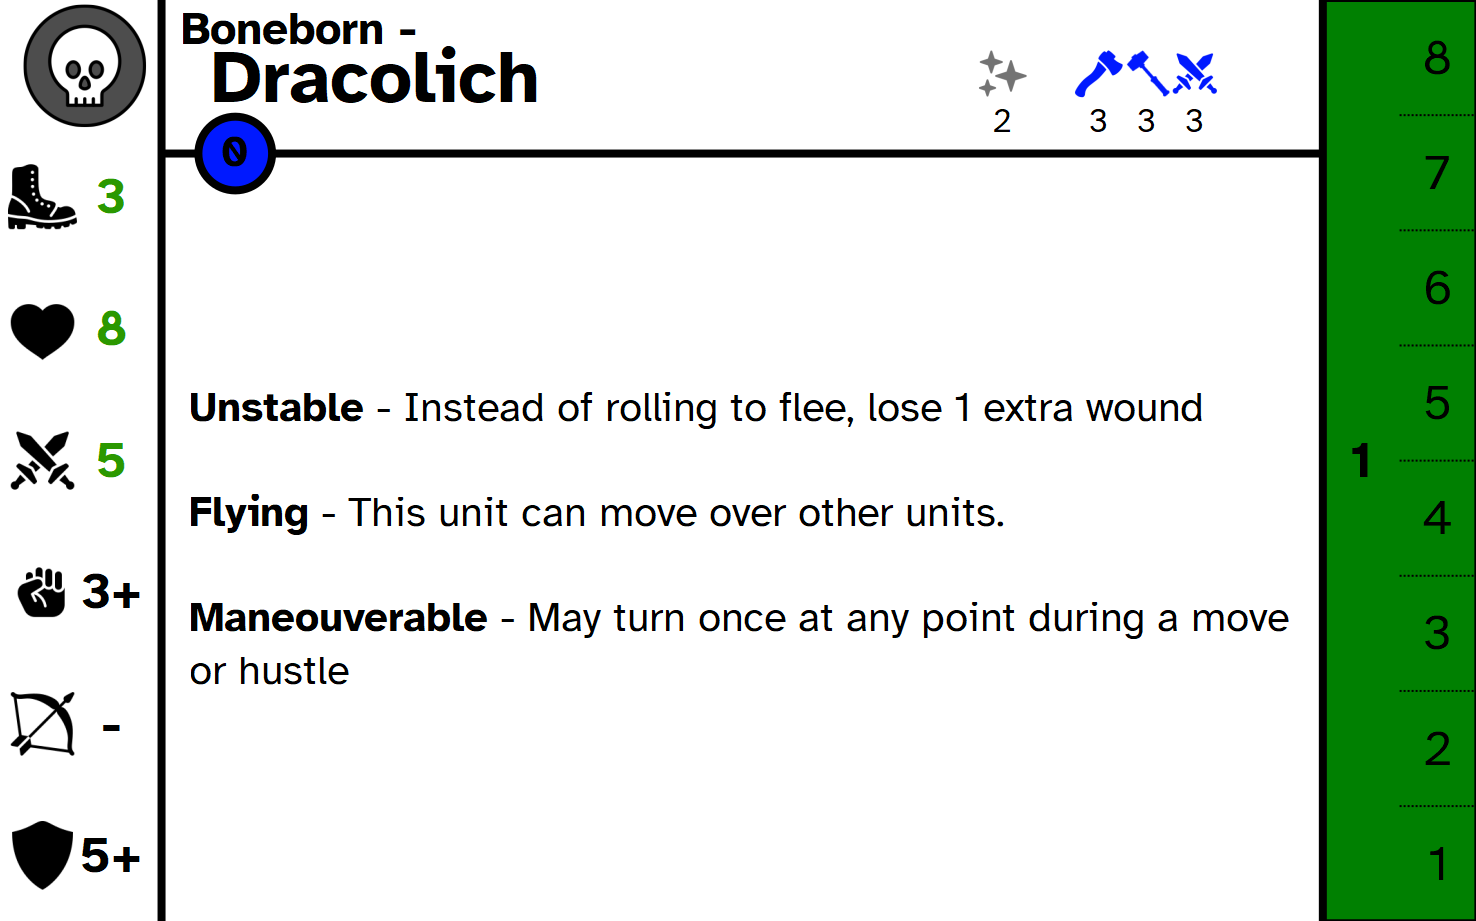
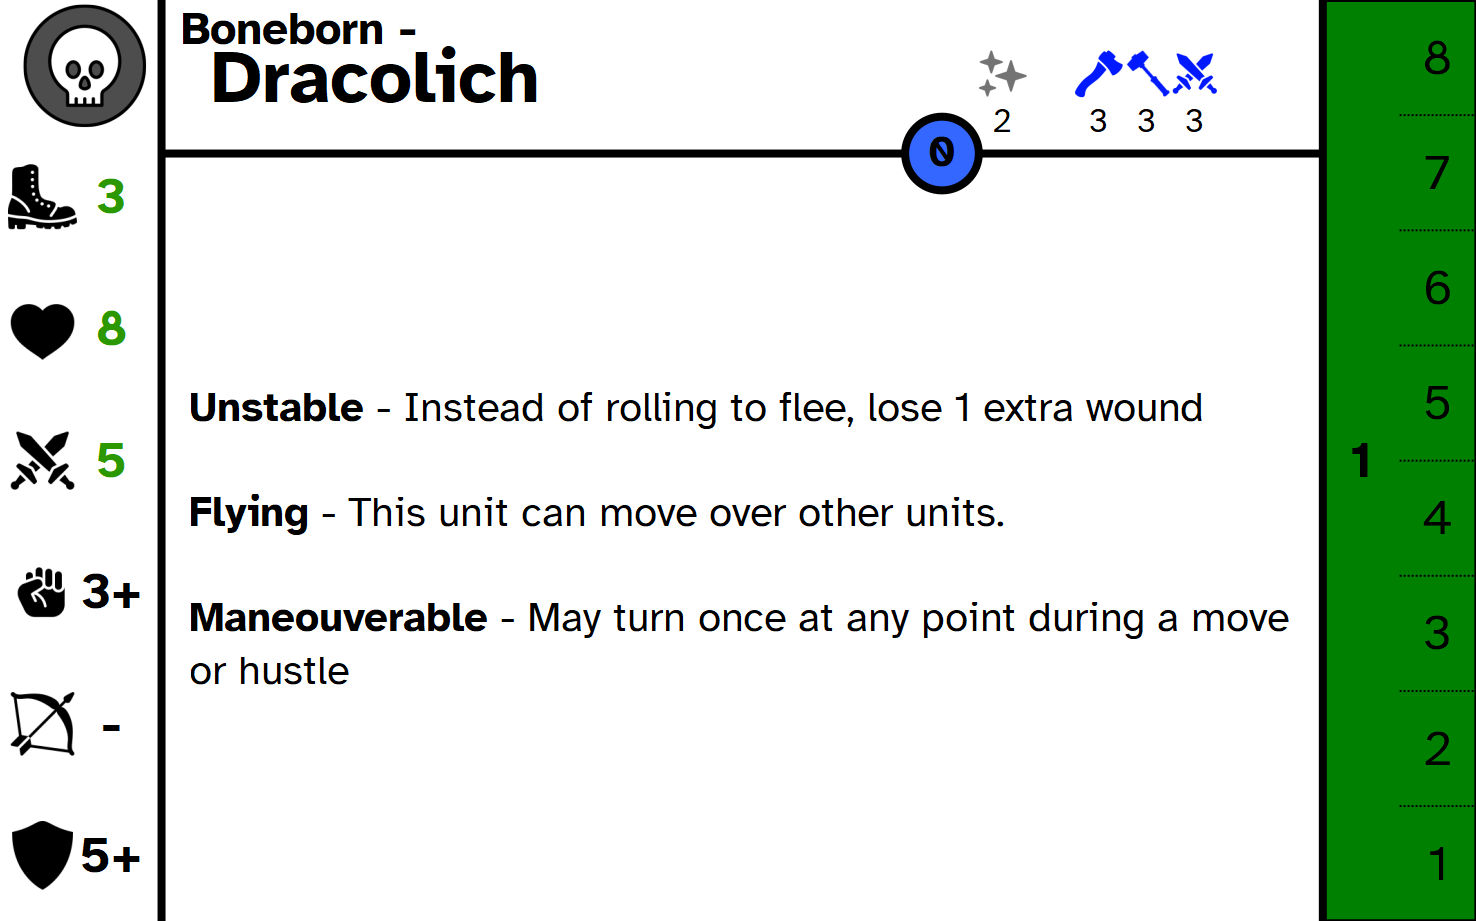
Moved equipment budget

Changed region(s): [[0.5921, 0.1216, 0.6856, 0.2128], [0.1247, 0.1216, 0.187, 0.2128]]

diff --git a/card-generator/cardmaker.rb b/card-generator/cardmaker.rb
@@ -37,7 +37,7 @@ HP_STROKE = STROKE / 3
 
 COMMON = '#C14B00';
 UNCOMMON = '#737373';
-RARE = '#0019FF';
+RARE = '#3467FF';
 
 BAR_BOX_W = CARD_HEIGHT / 6
 BAR_BOX_H = CARD_HEIGHT / 7
@@ -73,6 +73,7 @@ COST_RADIUS = COST_SIZE / 2
 COST_PAD = COST_SIZE * 0.5
 COST_X = BAR_BOX_W + STROKE + COST_PAD
 COST_Y = TITLE_BAR_H - COST_RADIUS 
+EQUIP_X = WEAPONS_X - COST_SIZE
 
 POWERS_PAD = FACTION_TEXT_PAD
 POWERS_X = BAR_END_X + STROKE + POWERS_PAD
@@ -185,10 +186,10 @@ Squib::Deck.new(cards: MAX_CARD_COUNT, width: FULL_CARD_WIDTH, height: FULL_CARD
   line x1: ONE_BAR_PAD, x2: ONE_BAR_PAD, y1: 0, y2: FULL_CARD_HEIGHT, stroke_width: STROKE, stroke_color: 'black'
   line x1: BAR_END_X, x2: ONE_BAR_PAD, y1: TITLE_BAR_H, y2: TITLE_BAR_H, stroke_width: STROKE, stroke_color: 'black'
   
-  circle range: t1_range, x: COST_X + COST_RADIUS, y: COST_Y + COST_RADIUS, radius: COST_RADIUS, stroke_width: STROKE, stroke_color: 'black', fill_color: COMMON
-  circle range: t3_range, x: COST_X + COST_RADIUS, y: COST_Y + COST_RADIUS, radius: COST_RADIUS, stroke_width: STROKE, stroke_color: 'black', fill_color: RARE
+  circle range: t1_range, x: COST_X + COST_RADIUS, y: COST_Y + COST_RADIUS, radius: COST_RADIUS, stroke_width: STROKE, stroke_color: 'black', fill_color: COMMON  
   text  range: t1_range, str: data['C1'], color: 'black', x: COST_X, y: COST_Y, width: COST_SIZE, height: COST_SIZE, align: 'center', valign: 'middle', font_size: POWERS_TEXT, font: 'Atkinson Hyperlegible Bold'
-  text  range: t3_range, str: data['C1'], color: 'black', x: COST_X, y: COST_Y, width: COST_SIZE, height: COST_SIZE, align: 'center', valign: 'middle', font_size: POWERS_TEXT, font: 'Atkinson Hyperlegible Bold'
+  circle range: t3_range, x: EQUIP_X + COST_RADIUS, y: COST_Y + COST_RADIUS, radius: COST_RADIUS, stroke_width: STROKE, stroke_color: 'black', fill_color: RARE
+  text  range: t3_range, str: data['C1'], color: 'black', x: EQUIP_X, y: COST_Y, width: COST_SIZE, height: COST_SIZE, align: 'center', valign: 'middle', font_size: POWERS_TEXT, font: 'Atkinson Hyperlegible Bold'
 
   save_png dir: '_cards', prefix: data['Unit'], count_format: ''
   save_sheet dir: '_sprues_tt', rows:5, columns: 3 
